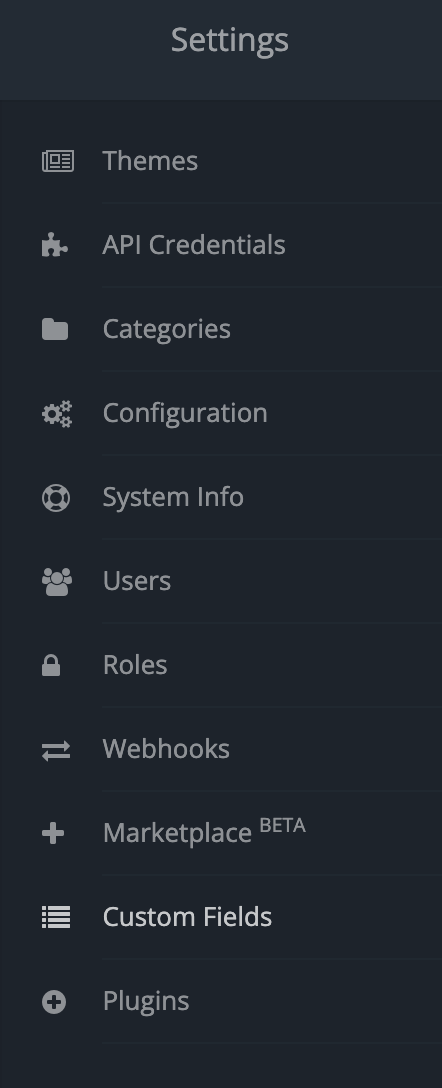
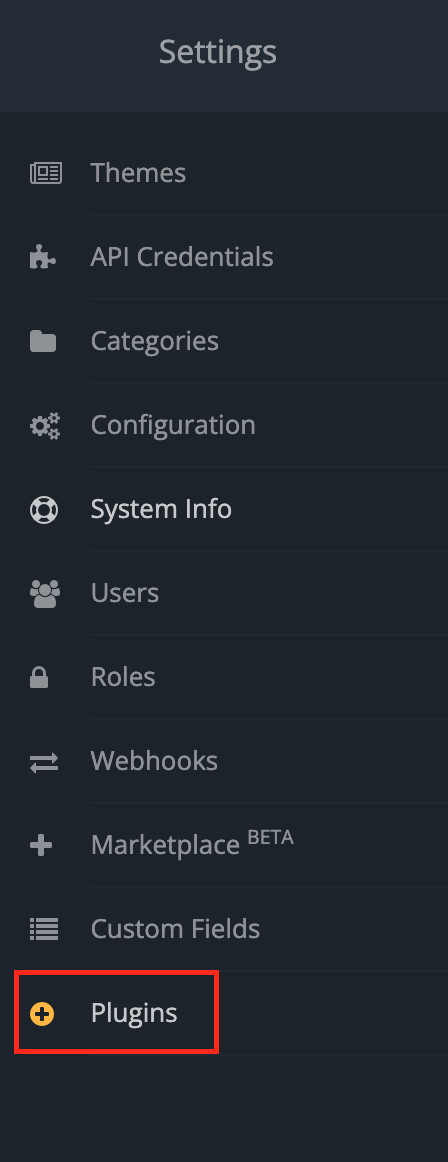
hubspot

diff --git a/docs/links/hubspot_doc.py b/docs/links/hubspot_doc.py
@@ -1,0 +1,7 @@
+from . import link
+
+link_name = "Source" 
+link_text = "Source" 
+link_url = "https://legacydocs.hubspot.com/docs/methods/companies/get_companies_modified" 
+
+link.xref_links.update({link_name: (link_text, link_url)})

diff --git a/docs/links/hubspot.py b/docs/links/hubspot.py
@@ -1,0 +1,7 @@
+from . import link
+
+link_name = "HubSpot CRM" 
+link_text = "HubSpot CRM" 
+link_url = "https://www.hubspot.com/products/crm" 
+
+link.xref_links.update({link_name: (link_text, link_url)})

diff --git a/docs/links/hubspot_app.py b/docs/links/hubspot_app.py
@@ -1,0 +1,8 @@
+from . import link
+
+link_name = "HubSpot API key" 
+link_text = "HubSpot API key" 
+link_url = "https://app.hubspot.com" 
+
+link.xref_links.update({link_name: (link_text, link_url)})
+

diff --git a/docs/links/gpassarelli_github.py b/docs/links/gpassarelli_github.py
@@ -1,0 +1,7 @@
+from . import link
+
+link_name = "@gpassarelli" 
+link_text = "@gpassarelli" 
+link_url = "https://github.com/gpassarelli" 
+
+link.xref_links.update({link_name: (link_text, link_url)})

diff --git a/docs/plugins/hubspot.rst b/docs/plugins/hubspot.rst
@@ -1,6 +1,104 @@
-.. vale off
-
 HubSpot
 ########
 
+.. vale off
+
+Mautic - HubSpot CRM Plugin
+***************************
+
 .. vale on
+
+Mautic can push Contacts to :xref:`HubSpot CRM` based on :ref:`Contact actions<testing integrations>` or :doc:`Point Triggers</points/points>`.
+
+HubSpot API key
+===============
+
+Getting Mautic connected to HubSpot requires integrating and configuring the HubSpot API key with the right credentials.
+
+1. Sign in to your HubSpot CRM account or create an account if you don't already have one.
+
+2. Access your HubSpot dashboard to generate your :xref:`HubSpot API key`.
+
+3. Copy your generated HubSpot Key and save it somewhere safe. 
+
+.. vale off
+
+Configure the HubSpot CRM Plugin
+================================
+
+.. vale on
+
+.. note:: 
+
+    Be sure to complete all steps before you publish the Plugin.
+
+1. Log in to Mautic instance.
+
+2. Go to **settings**.
+
+3. Click the **Plugins** option.
+
+.. image:: images/plugins.png
+  :width: 200
+  :align: center
+  :alt: Screenshot of settings
+
+4. Select the **HubSpot** Plugin configuration.  
+
+.. image:: images/hubspot-plugin.png
+  :width: 800
+  :alt: Screenshot of HubSpot Plugin
+
+5. In the configuration box, paste your **API key** in the HubSpot API key input field. 
+
+6. Configure the **Feature Specific Settings** to synchronize Contacts, Companies, or both  from HubSpot.
+
+7. Click **Save & Close**, then edit the Plugin to configure the field mapping..
+  
+.. note:: 
+
+    In the default setting, it's checked. The Plugin won't push Contacts to HubSpot CRM if you un-select it.
+
+8. Configure the :ref:`field mapping<field mapping>`.
+
+9. Click **Save** to save the Plugin configuration.
+    
+   * If you want to use the Plugin, set the *Publish* switch to **Yes**. Only do this when you have fully configured the Plugin settings.
+
+10. Set up the :ref:`cron job<configure mautic integration cron jobs>` if you haven't already configured it.
+
+.. tip:: 
+
+    Script to configure in your cron job: ``php $PATH_TO_MAUTIC_DIRECTORY/bin/console mautic:integration:fetchleads --integration=Hubspot --fetch-all``
+
+.. vale off
+
+Test the Plugin
+***************
+
+.. vale on
+
+Follow :ref:`these steps<testing integrations>` to test the Integration.
+
+.. vale off
+
+Troubleshooting HubSpot Integration
+***********************************
+
+.. vale on
+
+When creating the Contact, ensure the email address you used to test is valid. HubSpot only creates a new Contact when the email address is valid.
+
+Note, despite ``--fetch-all`` flag, the HubSpot API endpoints used in Mautic primarily leverage the following endpoints:
+
+* ``/companies/v2/companies/recent/modified/``
+
+* ``/contactslistseg/v1/lists/recently_updated/contacts/recent``
+  
+If you intend to do a full sync of your HubSpot Contacts, you need to modify an attribute of each so that they appear in HubSpot's recent/modified endpoints. 
+When connecting to a long-lived HubSpot instance, these endpoints pull only Contacts modified in the last 30 days, resulting in an incomplete sync. :xref:`Source`
+
+Credit
+******
+
+:xref:`@gpassarelli` had developed this Plugin.

diff --git a/docs/plugins/plugin_resources.rst b/docs/plugins/plugin_resources.rst
@@ -37,13 +37,14 @@ How to test an Integration
 If you want to test an Integration Plugin to ensure that it's configured properly, you have three options for how to do that. An Integration can push a Contact via these actions:
 
 * The **Campaign Builder** has the *Push Contact to Integration* action which can be used in the Campaign configuration.
+
 * The **Standalone Form** has the *Push Contact to Integration* action which can be used after a standalone Form is submitted.
+
 * The **Points Trigger** has the *Push Contact to Integration* action which can be triggered when a Contact achieves a configured point limit.
   
 Use any of those actions to test the Plugin and see if the Contact appears in the Integration. Here is an example of how you can configure the Standalone Form action:
 
 .. image:: images/push-integration.png
-  :width: 800
   :alt: Screenshot of push Integration
 
 1. Create a Form with some fields. For example, an ``email`` and a ``firstname`` field.
@@ -54,7 +55,7 @@ Use any of those actions to test the Plugin and see if the Contact appears in th
 
 4. Fill in the fields with sample Contact information and submit
 
-5. Ensure that the new Contact was created in the Integration.
+5. Ensure that the Integration created the new Contact.
 
 Troubleshooting
 ~~~~~~~~~~~~~~~
@@ -69,8 +70,8 @@ If the ``firstname`` value wasn't saved to the Integration:
 
 .. vale off
 
-Field Mapping in a Plugin Integration
-*************************************
+Field mapping 
+*************
 
 .. vale on
 
@@ -81,4 +82,3 @@ You have to select the Mautic Contact Field equivalent so each field gets the ri
 .. note:: 
 
     You don't have to map every field. Map only those you want to push into the Integration.
-
